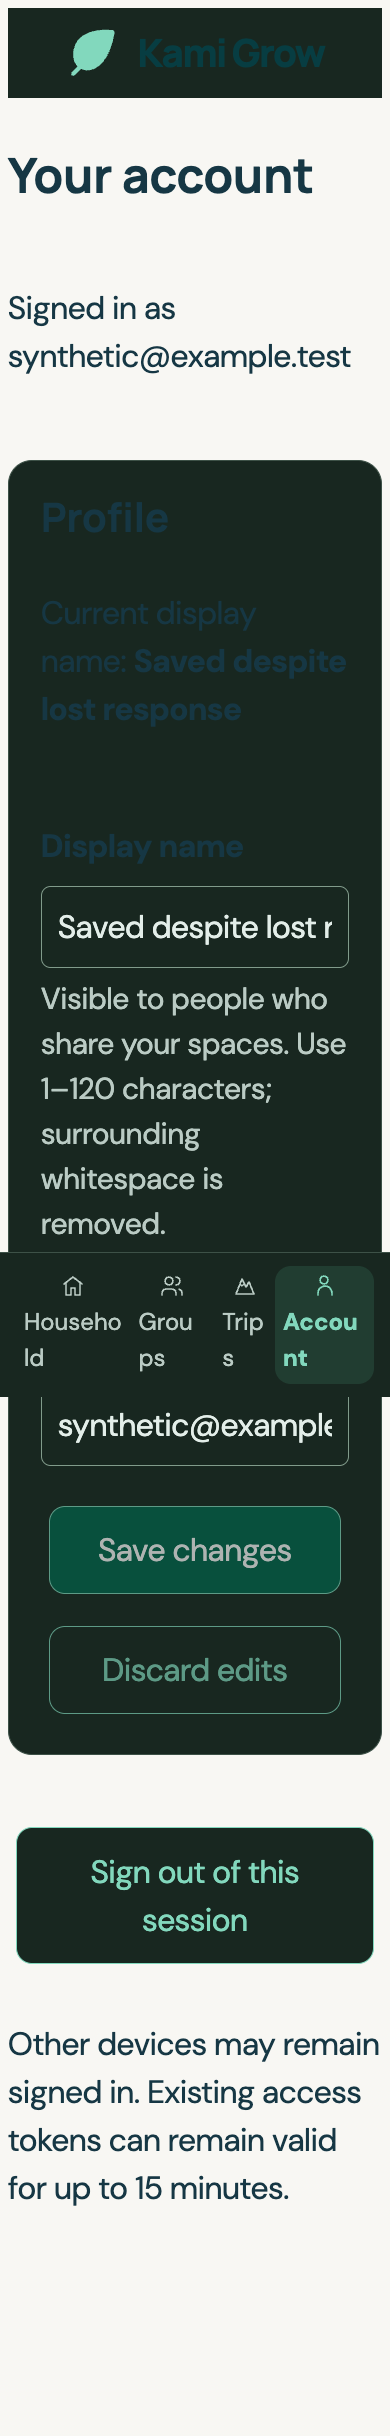
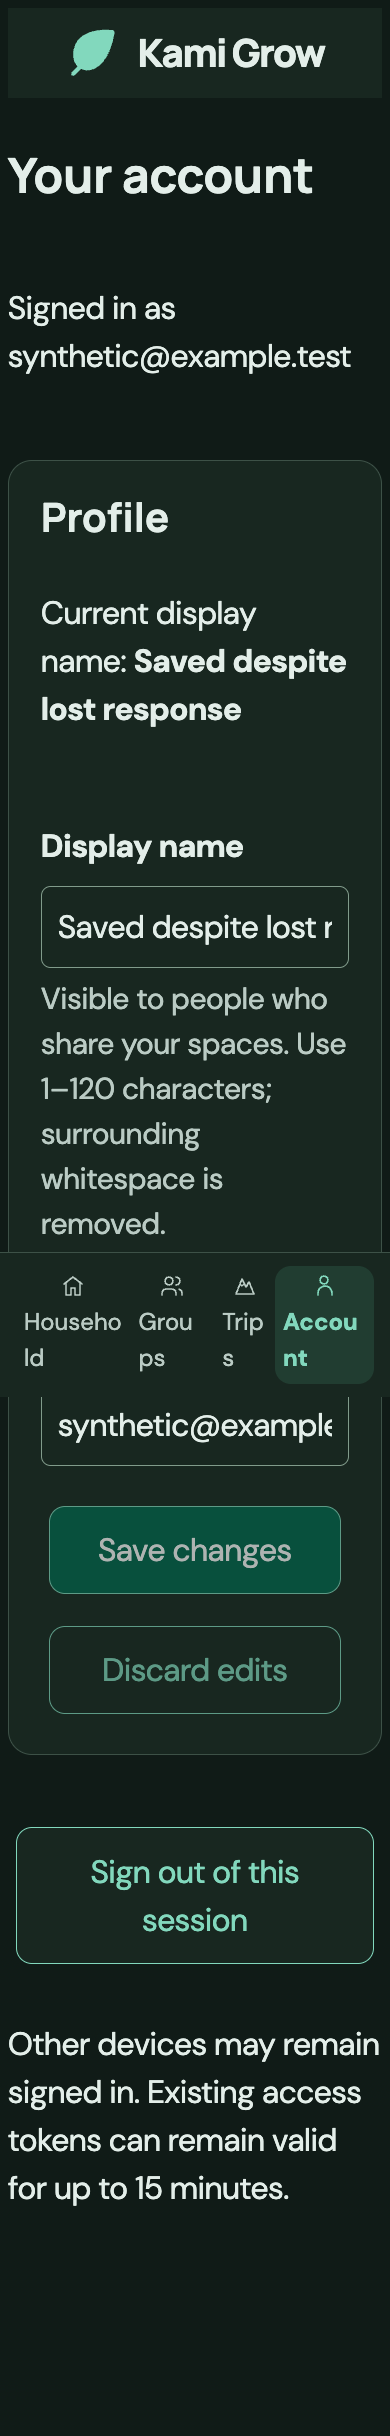
fix(account): preserve inherited text contrast in dark mode

diff --git a/apps/web/src/components/onboarding/onboarding.css b/apps/web/src/components/onboarding/onboarding.css
@@ -267,6 +267,8 @@
   body:has(.account-workspace),
   body:has(.scoped-invitations) {
     color-scheme: dark;
+    color: var(--color-ink);
+    background-color: var(--color-canvas);
     --color-ink: #e3eee9;
     --color-muted: #bacbc4;
     --color-primary: #82d8bd;
@@ -280,6 +282,10 @@
     --color-danger: #ffb0a0;
     --color-error-surface: #46261f;
     --color-focus: #9ac4ff;
+  }
+  .account-workspace .workspace-brand,
+  .financial-journey:has(.scoped-invitations) .workspace-brand {
+    color: var(--color-ink);
   }
   .account-workspace .ui-button,
   .financial-journey:has(.scoped-invitations) .ui-button {

diff --git a/docs/application/account-browser-evidence.md b/docs/application/account-browser-evidence.md
@@ -43,7 +43,9 @@ it. This exercises the real root FinancialSession; the harness never resets that
 provider to simulate a profile refresh. Existing session tests and independent
 requirements tests additionally cover account-switch and late-response safety.
 
-The browser asserts actual dark color-scheme tokens on Account and scoped
+The browser asserts actual dark canvas/color-scheme tokens and at least 4.5:1
+contrast for profile headings, labels and the brand, including inherited text. It
+checks dark color-scheme tokens on Account and scoped
 invitations; these surfaces supply dark semantic tokens because the existing
 base application otherwise forces light mode. The browser also checks navigation during failed profile reads, dark mode,
 keyboard focus from display name to read-only email, retryable failed sign-out
